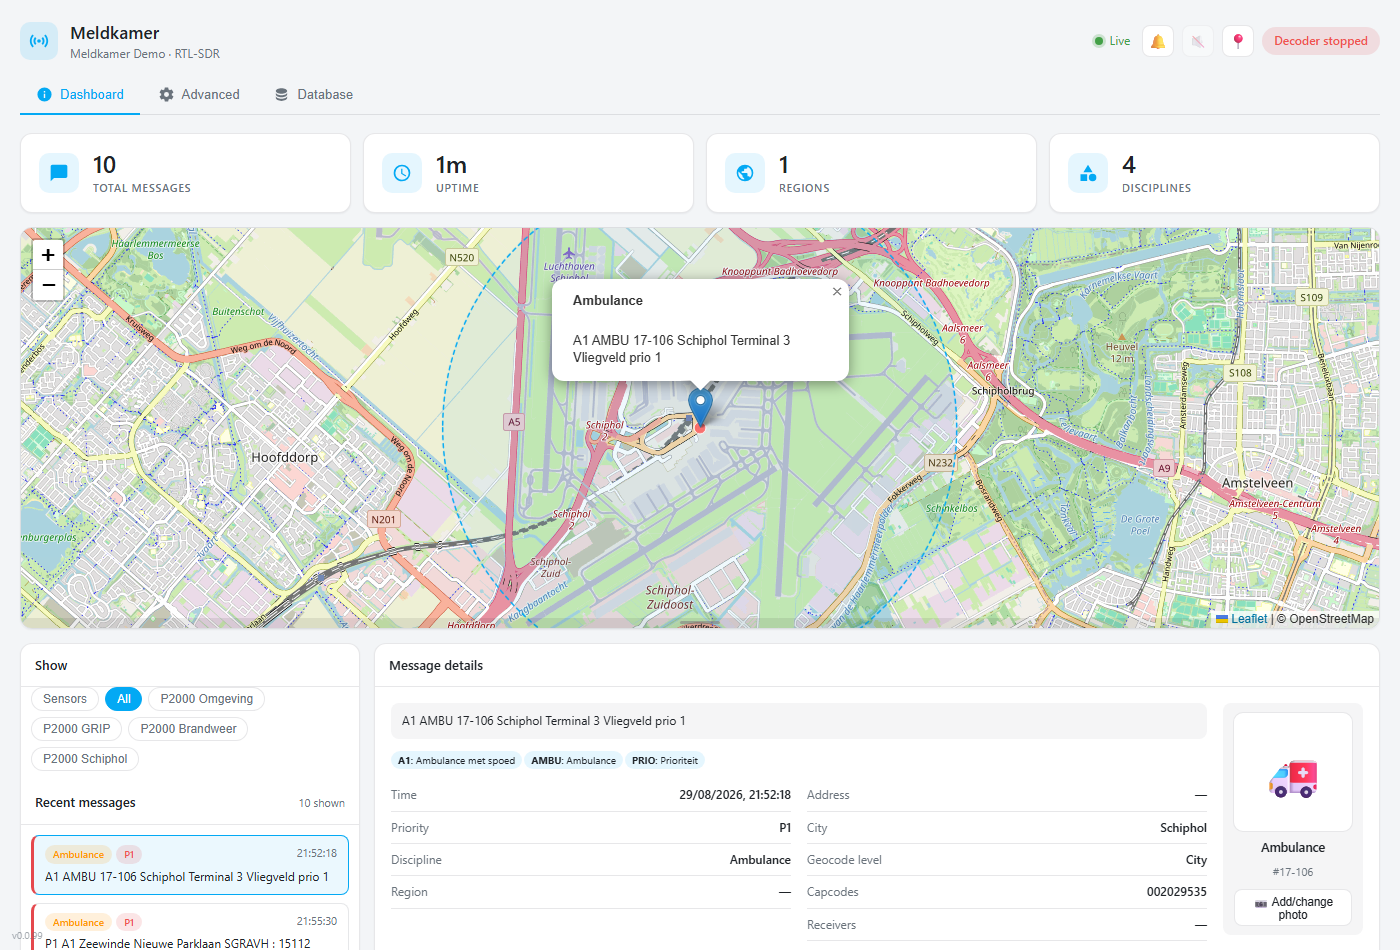
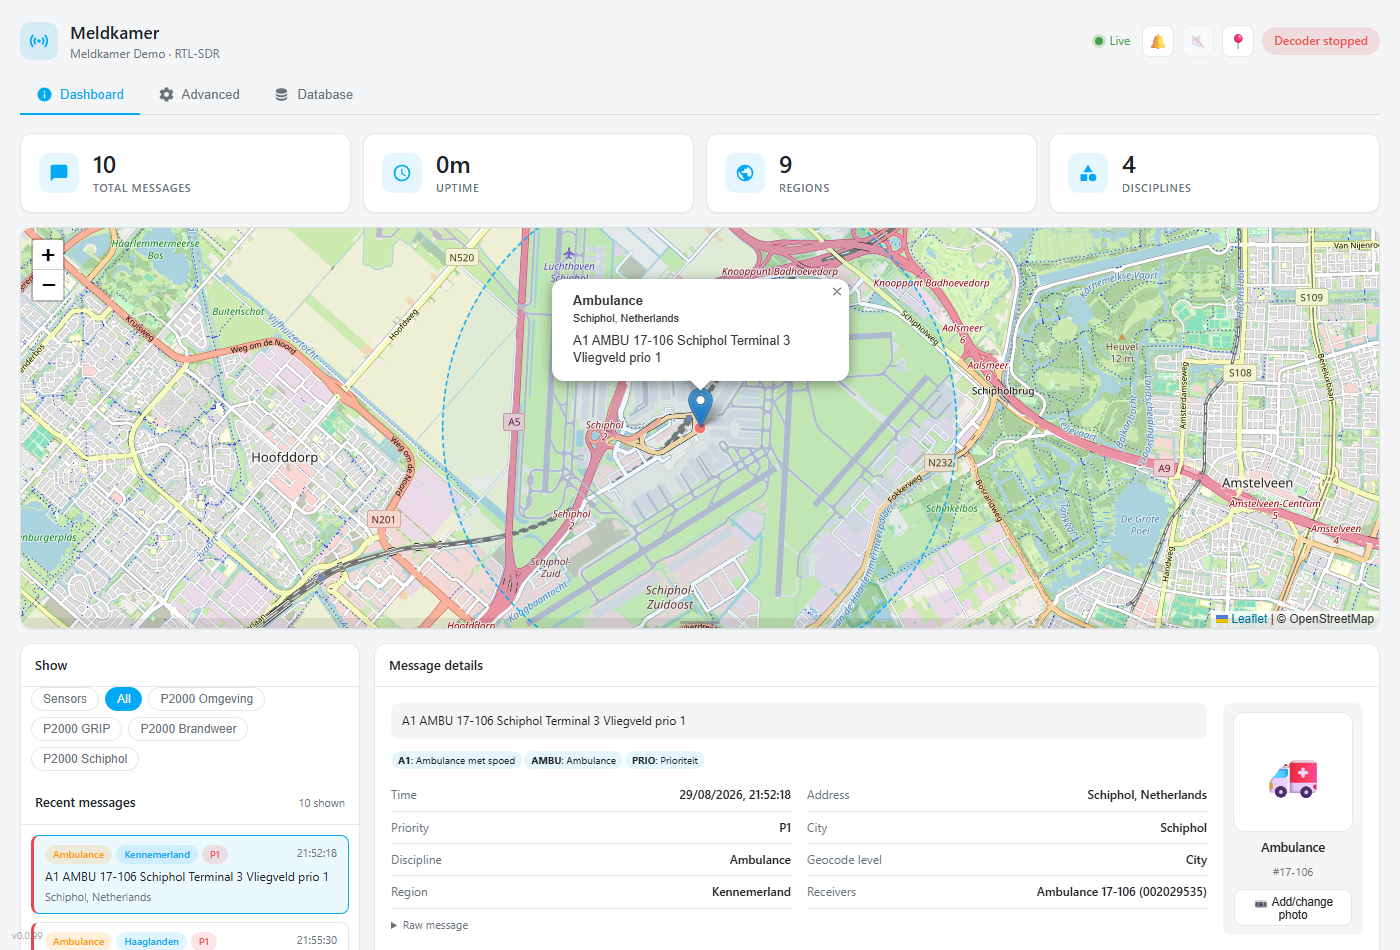
Fix stale dashboard after tab switch; regenerate screenshots with consistent demo data
- Reconnect the SSE stream and refetch messages when returning to the
  Dashboard tab or the browser tab regains visibility, if the live
  connection died silently in the background - previously only a full
  page reload could recover from this
- Regenerate README screenshots against a demo dataset that also seeds
  Capcodes/Places/Streets, so region/receiver info and the Database
  tab's row counts are consistent with the decoded messages shown,
  instead of showing "Empty" reference tables next to a fully enriched
  message

diff --git a/src/webui.py b/src/webui.py
@@ -2371,8 +2371,24 @@ DASHBOARD_HTML = """<!DOCTYPE html>
             document.getElementById('tab-' + tabName).classList.add('active');
             if (tabName === 'dashboard') {
                 setTimeout(() => map.invalidateSize(), 100);
+                resyncIfStale();
             }
         }
+
+        // The live stream can silently die (dropped by a proxy, or the browser
+        // tab/this in-app tab being away for a while) with no visible error -
+        // reconnect + refetch on return instead of leaving it frozen until a
+        // manual page reload.
+        function resyncIfStale() {
+            if (typeof evtSource === 'undefined' || !evtSource || evtSource.readyState === EventSource.CLOSED) {
+                connectStream();
+            }
+            loadMessagesList();
+        }
+
+        document.addEventListener('visibilitychange', () => {
+            if (!document.hidden) resyncIfStale();
+        });
 
         // Uptime is recomputed client-side so the SSE stream can stay quiet
         // when nothing changed.
